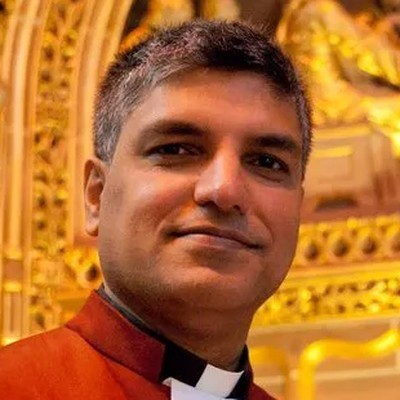
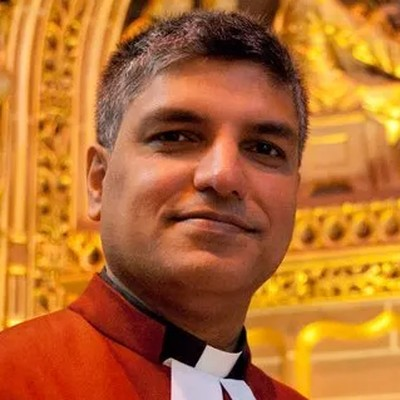
Gomes portrait: zoom out 3%, raise face
Claude-Session: https://claude.ai/code/session_018FvaGWmpi4YXVSvv84J7zQ

diff --git a/endorsements.html b/endorsements.html
@@ -56,7 +56,7 @@
       </div>
     </article>
     <article class="endorse">
-      <div class="who"><img src="assets/img/gomes.jpg?v=3" alt="Rev’d Canon Dr. Jules Gomes" width="120" height="120" loading="lazy"></div>
+      <div class="who"><img src="assets/img/gomes.jpg?v=4" alt="Rev’d Canon Dr. Jules Gomes" width="120" height="120" loading="lazy"></div>
       <div>
         <blockquote><p>“In the Hebrew Bible, the Temple Mount is the holiest place in the world. In the New Testament, it is inextricably linked to the life and ministry of Jesus. In history and current events, it is the axis of theological and political ferment. And yet, until now it has been virtually impossible to find a guidebook that both drills deep and soars high over what Jewish tradition considers to be the historical center of the world.</p><p>John Enarson’s meticulously researched book fills this yawning chasm, making an outstanding contribution from a non-supersessionist perspective. He digs deep into biblical, historical, and archaeological scholarship, building a suspension bridge from Solomon and Islam to the Crusaders and the Six-Day War. Encyclopedic in its scope, the book updates the contested history of the Temple Mount to the present day and even treats readers to its place in biblical eschatology. The maps and photographs are the icing on the cake! There simply isn’t another book like it.”</p></blockquote>
         <cite><b>Rev’d Canon Dr. Jules Gomes</b>PhD in Hebrew Bible, University of Cambridge</cite>

diff --git a/index.html b/index.html
@@ -80,7 +80,7 @@
           <figcaption><b>Rev. Dr. Gerald McDermott</b><br>Author of <i>Israel Matters</i> and <i>A New History of Redemption</i>; Distinguished Professor, Reformed Episcopal &amp; Jerusalem Seminaries</figcaption>
         </figure>
         <figure class="quote">
-          <img src="assets/img/gomes.jpg?v=3" alt="Rev’d Canon Dr. Jules Gomes" width="120" height="120">
+          <img src="assets/img/gomes.jpg?v=4" alt="Rev’d Canon Dr. Jules Gomes" width="120" height="120">
           <blockquote>“Meticulously researched … an outstanding contribution from a non-supersessionist perspective. There simply isn’t another book like it.”</blockquote>
           <figcaption><b>Rev’d Canon Dr. Jules Gomes</b><br>PhD in Hebrew Bible, University of Cambridge</figcaption>
         </figure>

diff --git a/book.html b/book.html
@@ -122,7 +122,7 @@
         <figcaption><b>Rev. Dr. Gerald McDermott</b><br>Reformed Episcopal &amp; Jerusalem Seminaries</figcaption>
       </figure>
       <figure class="quote">
-        <img src="assets/img/gomes.jpg?v=3" alt="Rev’d Canon Dr. Jules Gomes" width="120" height="120" loading="lazy">
+        <img src="assets/img/gomes.jpg?v=4" alt="Rev’d Canon Dr. Jules Gomes" width="120" height="120" loading="lazy">
         <blockquote>“Encyclopedic in its scope … There simply isn’t another book like it.”</blockquote>
         <figcaption><b>Rev’d Canon Dr. Jules Gomes</b><br>PhD in Hebrew Bible, University of Cambridge</figcaption>
       </figure>
